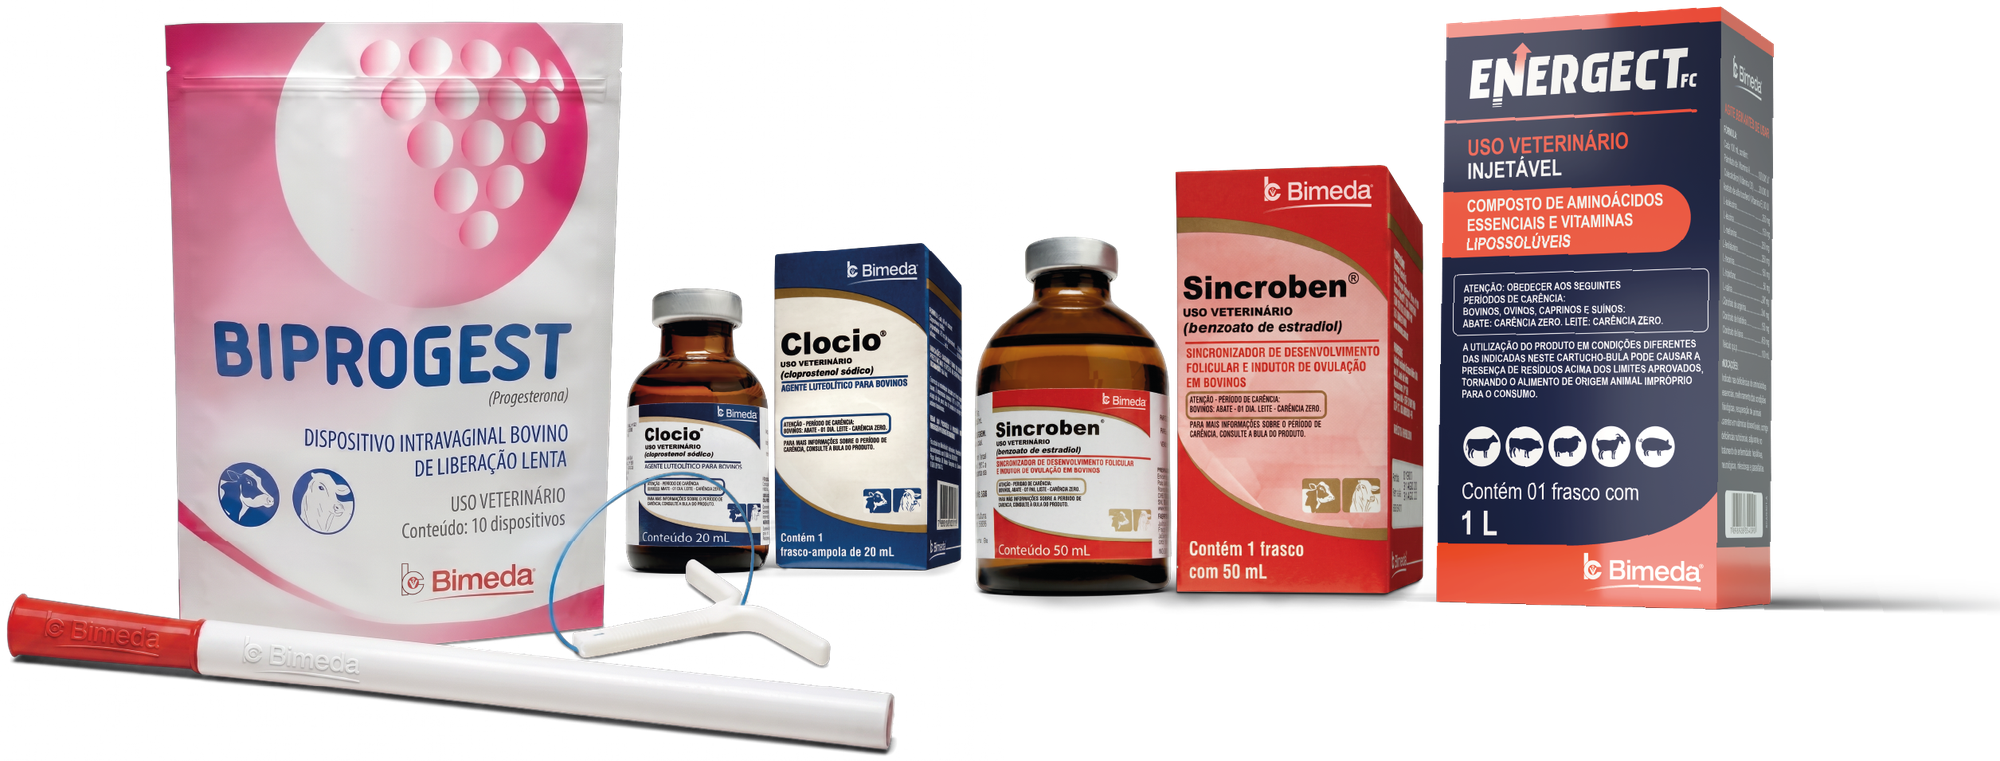
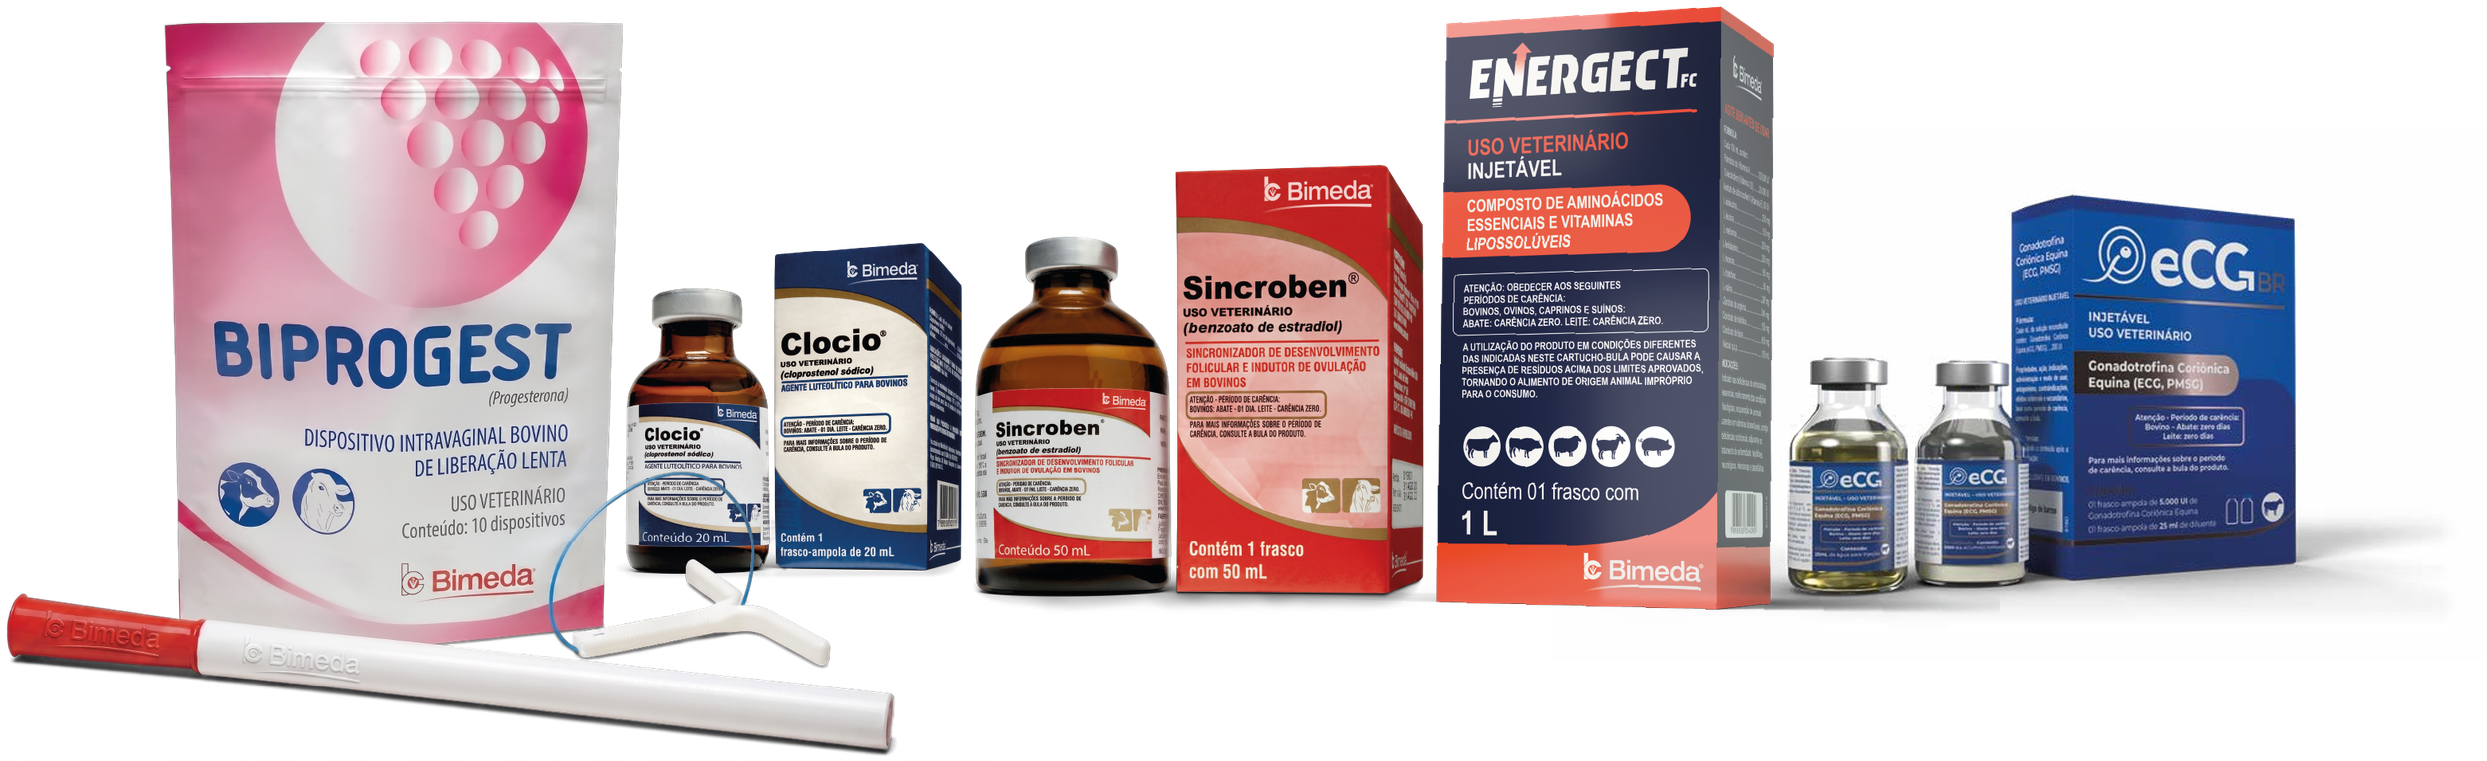
Ajustes do cliente: sem faixa de numeros, eCG no portfolio, protocolos proporcionais
1. Remove a faixa de numeros da abertura, na LP e no wireframe.
2. Inclui o eCG BR na foto de familia da linha. O recorte com fundo
   transparente veio da propria pagina 6 do folheto, onde a imagem tem
   mascara alfa embutida, e foi escalado pela altura do cartucho.
3. Os blocos dos protocolos passam a ter largura proporcional aos dias de
   cada intervalo (7fr 1fr 2fr para vacas de leite, 8fr 2fr para corte e
   novilhas, 12fr 2fr para inducao de ciclicidade), como no folheto. A
   coluna de 1 dia tem largura minima para o rotulo caber, e as doses
   ganham espaco inquebravel para nao partirem no meio.

diff --git a/index.html b/index.html
@@ -78,15 +78,6 @@
       <a href="#protocolos" class="btn btn-ghost">Ver os protocolos</a>
     </div>
   </div>
-
-  <div class="hero-stats">
-    <div class="wrap stats-grid">
-      <div class="stat"><span class="stat-num" data-count="63.4" data-decimals="1" data-suffix="%">63,4%</span><span class="stat-lbl">taxa de prenhez com Biprogest<sup>1</sup></span></div>
-      <div class="stat"><span class="stat-num" data-count="5">5</span><span class="stat-lbl">produtos na linha</span></div>
-      <div class="stat"><span class="stat-num" data-count="4">4</span><span class="stat-lbl">protocolos prontos</span></div>
-      <div class="stat"><span class="stat-num" data-count="65" data-prefix="+">+65</span><span class="stat-lbl">anos de Bimeda no mundo</span></div>
-    </div>
-  </div>
 </section>
 
 <!-- ============ VÍDEO ============ -->
@@ -201,8 +192,8 @@
       <picture>
         <source srcset="assets/img/produtos-familia.webp" type="image/webp">
         <img src="assets/img/produtos-familia.png"
-             alt="Biprogest, Clocio, Sincroben e Energect FC, linha Bimeda Reprodução"
-             width="2000" height="761" loading="lazy">
+             alt="eCG BR, Biprogest, Clocio, Sincroben e Energect FC, linha Bimeda Reprodução"
+             width="2487" height="761" loading="lazy">
       </picture>
     </div>
 
@@ -496,21 +487,21 @@
 
       <div role="tabpanel" id="panel-leite" aria-labelledby="tab-leite" class="tabpanel is-active">
         <h3 class="proto-title">Protocolo de vacas de leite</h3>
-        <ol class="timeline" style="--steps:4">
+        <ol class="timeline" style="--cols:7fr minmax(96px,1fr) 2fr 2fr">
           <li class="tl-step">
             <span class="tl-day">Dia 0</span>
             <span class="tl-bar tl-bar-device"><span>Biprogest</span></span>
-            <span class="tl-act">Sincroben (2 mL) + GnRH<br><small>Inserção do Biprogest</small></span>
+            <span class="tl-act">Sincroben (2&nbsp;mL) + GnRH<br><small>Inserção do Biprogest</small></span>
           </li>
           <li class="tl-step">
             <span class="tl-day">Dia 7</span>
             <span class="tl-bar tl-bar-device is-dashed"></span>
-            <span class="tl-act">Clocio (2 mL)</span>
+            <span class="tl-act">Clocio (2&nbsp;mL)</span>
           </li>
           <li class="tl-step">
             <span class="tl-day">Dia 8</span>
             <span class="tl-bar"><span>48 h</span></span>
-            <span class="tl-act">Clocio (2 mL)<br><small>Retirada do Biprogest</small></span>
+            <span class="tl-act">Clocio (2&nbsp;mL)<br><small>Retirada do Biprogest</small></span>
           </li>
           <li class="tl-step">
             <span class="tl-day">Dia 10</span>
@@ -523,16 +514,16 @@
 
       <div role="tabpanel" id="panel-corte" aria-labelledby="tab-corte" class="tabpanel" hidden>
         <h3 class="proto-title">Vacas de corte <em>(anestro)</em></h3>
-        <ol class="timeline" style="--steps:3">
+        <ol class="timeline" style="--cols:8fr 2fr 2fr">
           <li class="tl-step">
             <span class="tl-day">Dia 0</span>
             <span class="tl-bar tl-bar-device"><span>Biprogest</span></span>
-            <span class="tl-act">Sincroben (2 mL)<br><small>Inserção do Biprogest</small></span>
+            <span class="tl-act">Sincroben (2&nbsp;mL)<br><small>Inserção do Biprogest</small></span>
           </li>
           <li class="tl-step">
             <span class="tl-day">Dia 8</span>
             <span class="tl-bar"><span>48 h</span></span>
-            <span class="tl-act">Clocio (2 mL) + CE + eCG BR (1,5 mL)<br><small>Retirada do Biprogest</small></span>
+            <span class="tl-act">Clocio (2&nbsp;mL) + CE + eCG BR (1,5&nbsp;mL)<br><small>Retirada do Biprogest</small></span>
           </li>
           <li class="tl-step">
             <span class="tl-day">Dia 10</span>
@@ -545,16 +536,16 @@
 
       <div role="tabpanel" id="panel-novilhas" aria-labelledby="tab-novilhas" class="tabpanel" hidden>
         <h3 class="proto-title">Protocolo de novilhas <em>(ciclando)</em></h3>
-        <ol class="timeline" style="--steps:3">
+        <ol class="timeline" style="--cols:8fr 2fr 2fr">
           <li class="tl-step">
             <span class="tl-day">Dia 0</span>
             <span class="tl-bar tl-bar-device"><span>Biprogest</span></span>
-            <span class="tl-act">Sincroben (2 mL) + Clocio (2 mL)<br><small>Inserção do Biprogest</small></span>
+            <span class="tl-act">Sincroben (2&nbsp;mL) + Clocio (2&nbsp;mL)<br><small>Inserção do Biprogest</small></span>
           </li>
           <li class="tl-step">
             <span class="tl-day">Dia 8</span>
             <span class="tl-bar"><span>48 h</span></span>
-            <span class="tl-act">CE + eCG BR (1 mL)<br><small>Retirada do Biprogest</small></span>
+            <span class="tl-act">CE + eCG BR (1&nbsp;mL)<br><small>Retirada do Biprogest</small></span>
           </li>
           <li class="tl-step">
             <span class="tl-day">Dia 10</span>
@@ -567,7 +558,7 @@
 
       <div role="tabpanel" id="panel-ciclicidade" aria-labelledby="tab-ciclicidade" class="tabpanel" hidden>
         <h3 class="proto-title">Protocolo para indução de ciclicidade</h3>
-        <ol class="timeline" style="--steps:3">
+        <ol class="timeline" style="--cols:12fr 2fr 2fr">
           <li class="tl-step">
             <span class="tl-day">Dia 0</span>
             <span class="tl-bar tl-bar-device"><span>Biprogest</span></span>
@@ -576,7 +567,7 @@
           <li class="tl-step">
             <span class="tl-day">Dia 12</span>
             <span class="tl-bar"></span>
-            <span class="tl-act">Sincroben (2 mL)</span>
+            <span class="tl-act">Sincroben (2&nbsp;mL)</span>
           </li>
           <li class="tl-step">
             <span class="tl-day">Dia 0</span>

diff --git a/assets/css/style.css b/assets/css/style.css
@@ -127,14 +127,6 @@ p:last-child{margin-bottom:0}
 .hero-in:nth-child(4){animation-delay:.18s}
 @keyframes heroIn{from{opacity:0; transform:translateY(18px)} to{opacity:1; transform:none}}
 
-.hero-stats{background:rgba(6,20,46,.72); border-top:1px solid rgba(255,255,255,.16)}
-.stats-grid{display:grid; grid-template-columns:repeat(4,1fr); padding-block:26px}
-.stat{text-align:center; padding-inline:14px}
-.stat + .stat{border-left:1px solid rgba(255,255,255,.18)}
-.stat-num{display:block; font-family:var(--display); font-weight:700; font-size:clamp(30px,4vw,44px); color:#fff; line-height:1}
-.stat-lbl{display:block; margin-top:8px; font-size:13.5px; line-height:1.35; color:rgba(255,255,255,.74)}
-.stat-lbl sup{font-size:9px; color:var(--blue-400)}
-
 /* ==========================================================================
    FAIXAS
    ========================================================================== */
@@ -278,7 +270,7 @@ p:last-child{margin-bottom:0}
 .proto-title{font-family:var(--display); font-size:clamp(26px,3.2vw,36px); font-weight:600; color:#fff; margin-bottom:32px; text-align:center}
 .proto-title em{font-style:normal; font-weight:400; color:rgba(255,255,255,.68)}
 
-.timeline{list-style:none; display:grid; grid-template-columns:repeat(var(--steps),1fr)}
+.timeline{list-style:none; display:grid; grid-template-columns:var(--cols)}
 .tl-step{display:flex; flex-direction:column; padding-right:6px}
 .tl-day{order:3; font-family:var(--display); font-size:22px; font-weight:600; color:#fff; margin-top:12px; padding-left:2px}
 .tl-act{order:1; font-size:14.5px; font-weight:600; color:#fff; line-height:1.35; min-height:72px; display:flex; flex-direction:column; justify-content:flex-end; padding-bottom:12px}
@@ -400,8 +392,6 @@ p:last-child{margin-bottom:0}
   .hero::before{background:linear-gradient(180deg, rgba(8,26,58,.9) 0%, rgba(8,26,58,.5) 26%, rgba(8,26,58,.86) 64%, rgba(8,26,58,.98) 100%)}
   .hero-logo{margin-bottom:26px}
   .hero-actions .btn{flex:1 1 100%}
-  .stats-grid{grid-template-columns:repeat(2,1fr); gap:22px 0; padding-block:24px}
-  .stat:nth-child(3){border-left:0}
   .lineup img{max-height:190px}
   .index{grid-template-columns:1fr; border-left:0}
   .index li + li{border-left:0}

diff --git a/wireframe/index.html b/wireframe/index.html
@@ -125,14 +125,8 @@ body{margin:0;background:var(--page);color:var(--ink);font:15px/1.55 var(--sans)
         <span class="btn">Baixar o folheto</span>
         <span class="btn ghost">Ver os protocolos</span>
       </div>
-      <div class="row row-4" style="margin-top:26px">
-        <div class="num"><b>63,4%</b><span>taxa de prenhez com Biprogest</span></div>
-        <div class="num"><b>5</b><span>produtos na linha</span></div>
-        <div class="num"><b>4</b><span>protocolos prontos</span></div>
-        <div class="num"><b>+65</b><span>anos de Bimeda no mundo</span></div>
-      </div>
-      <p class="nota"><b>Intenção:</b> a marca da linha aparece em destaque, como na capa do folheto. A faixa
-        de números entrega o argumento principal antes de qualquer rolagem.</p>
+      <p class="nota"><b>Intenção:</b> a marca da linha aparece em destaque, como na capa do folheto, e a
+        abertura leva direto para o folheto ou para os protocolos.</p>
     </div>
   </section>
 

diff --git a/README.md b/README.md
@@ -1,4 +1,4 @@
-# Linha Bimeda Reprodução — Landing Page
+# Linha Bimeda Reprodução | Landing Page
 
 **Communitas Com.** para Bimeda · Peça de origem: `BR_MR26_0024`
 Destino final: `saudeanimal.bimeda.com.br`
@@ -7,7 +7,7 @@ Destino final: `saudeanimal.bimeda.com.br`
 
 ## Em validação agora: a estrutura
 
-👉 **[`wireframe/index.html`](wireframe/index.html)** — versão de baixa fidelidade da LP, para o cliente
+👉 **[`wireframe/index.html`](wireframe/index.html)** é a versão de baixa fidelidade da LP, para o cliente
 validar a **ordem das seções, o conteúdo de cada uma e a hierarquia da informação**. Cores, fotos e
 tipografia finais não fazem parte desta etapa.
 
@@ -21,7 +21,7 @@ python3 -m http.server 4321
 
 | # | Seção | O que entra |
 |---|-------|-------------|
-| 01 | Abertura | Logo da linha, assinatura, 2 CTAs, faixa de números |
+| 01 | Abertura | Logo da linha, assinatura, 2 CTAs |
 | 02 | Vídeo institucional | Vídeo de 1:40 e três destaques |
 | 03 | eCG BR | O lançamento, com o pack shot inteiro e o gráfico de folículos |
 | 04 | A linha completa | Foto de família e índice dos 5 produtos |
@@ -53,8 +53,9 @@ A LP final entra em `master` depois que a estrutura for aprovada e o layout, afi
 
 ## Pendências com a Bimeda
 
-1. **Pack shot do eCG BR** em PNG com fundo transparente. O que está em uso foi extraído do PDF do
-   folheto e teve o fundo reconstruído.
+1. **Pack shot do eCG BR em alta.** O recorte em uso na seção do produto e na foto de família da
+   linha foi extraído do PDF do folheto, onde a imagem tem 764x431 px. Serve nas duas aplicações
+   atuais, mas um arquivo de origem em resolução maior deixaria a peça pronta para qualquer uso.
 2. **URLs das redes sociais.** Instagram, LinkedIn e Facebook estão presumidos a partir de `@bimedabrasil`.
 3. **Link da política de privacidade** para o aceite do formulário.
 4. **Hospedagem do vídeo.** Hoje o arquivo tem 18 MB e é servido pela própria página. Para produção,
